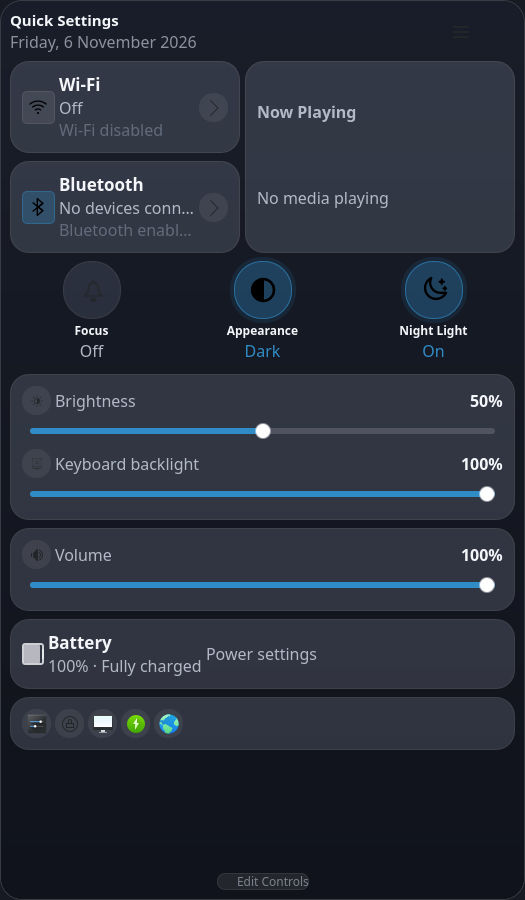
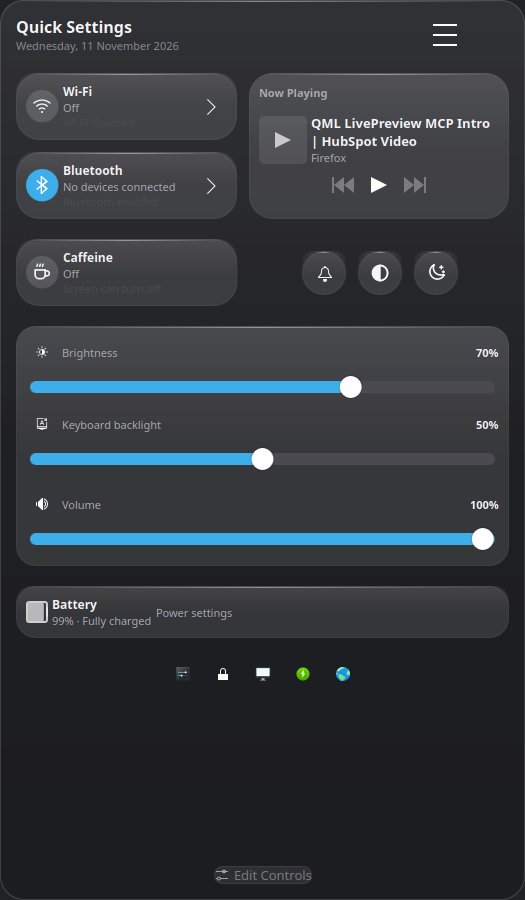
Add Caffeine toggle and refresh screenshots

diff --git a/package/contents/ui/CaffeineCard.qml b/package/contents/ui/CaffeineCard.qml
@@ -1,0 +1,196 @@
+// SPDX-FileCopyrightText: 2026 Peter Chege <peterchegen12@gmail.com>
+// SPDX-License-Identifier: GPL-3.0-or-later
+
+import QtQuick
+import QtQuick.Layouts
+
+import org.kde.plasma.components as PlasmaComponents3
+import org.kde.plasma.plasma5support as Plasma5Support
+import org.kde.kirigami as Kirigami
+
+import "components" as Components
+
+Components.GlassCard {
+    id: root
+
+    property bool active: false
+    property bool available: true
+    property bool pendingSync: false
+    property real pendingSince: 0
+
+    // A transient user unit keeps the inhibition alive across plasmashell
+    // restarts and is removed automatically when it is stopped.
+    readonly property string unitName: "quick-settings-caffeine"
+    readonly property string statusCommand: "systemctl --user is-active --quiet "
+        + root.unitName + ".service"
+    readonly property string availabilityCommand: "sh -c 'command -v systemd-run >/dev/null"
+        + " && command -v systemctl >/dev/null'"
+    readonly property string startCommand: "sh -c 'systemctl --user stop "
+        + root.unitName + ".service >/dev/null 2>&1; systemd-run --user --unit="
+        + root.unitName + " --collect --description=QuickSettingsCaffeine"
+        + " systemd-inhibit --what=idle:sleep --who=QuickSettings"
+        + " --why=Caffeine sleep infinity'"
+    readonly property string stopCommand: "systemctl --user stop "
+        + root.unitName + ".service"
+
+    overrideRadius: t.popupRadius
+    interactive: root.available
+    onClicked: root.toggle()
+
+    Component.onCompleted: {
+        availabilitySource.connectSource(root.availabilityCommand);
+        root.refresh();
+    }
+
+    function refresh() {
+        statusSource.disconnectSource(root.statusCommand);
+        statusSource.connectSource(root.statusCommand);
+    }
+
+    function toggle() {
+        if (!root.available) {
+            return;
+        }
+        // Update the card immediately; the poll below confirms the result and
+        // ignores stale reads until the unit agrees with the flip.
+        root.pendingSince = Date.now();
+        root.pendingSync = true;
+        root.active = !root.active;
+        const command = root.active ? root.startCommand : root.stopCommand;
+        commandSource.disconnectSource(command);
+        commandSource.connectSource(command);
+    }
+
+    Plasma5Support.DataSource {
+        id: statusSource
+
+        engine: "executable"
+        interval: 2000
+        connectedSources: root.available ? [root.statusCommand] : []
+
+        onNewData: function(sourceName, data) {
+            if (sourceName !== root.statusCommand) {
+                return;
+            }
+            const exitCode = Number(data["exit code"] !== undefined
+                ? data["exit code"] : data["exit status"]);
+            const isActive = exitCode === 0;
+            if (root.pendingSync) {
+                if (isActive === root.active) {
+                    root.pendingSync = false;
+                } else if (Date.now() - root.pendingSince > 5000) {
+                    root.pendingSync = false;
+                    root.active = isActive;
+                } else {
+                    return;
+                }
+            }
+            root.active = isActive;
+        }
+    }
+
+    Plasma5Support.DataSource {
+        id: availabilitySource
+
+        engine: "executable"
+        interval: 0
+        connectedSources: []
+
+        onNewData: function(sourceName, data) {
+            availabilitySource.disconnectSource(sourceName);
+            if (sourceName !== root.availabilityCommand) {
+                return;
+            }
+            const exitCode = Number(data["exit code"] !== undefined
+                ? data["exit code"] : data["exit status"]);
+            root.available = exitCode === 0;
+            root.refresh();
+        }
+    }
+
+    Plasma5Support.DataSource {
+        id: commandSource
+
+        engine: "executable"
+        interval: 0
+        connectedSources: []
+
+        onNewData: function(sourceName, data) {
+            commandSource.disconnectSource(sourceName);
+            root.refresh();
+        }
+    }
+
+    RowLayout {
+        Layout.fillWidth: true
+        spacing: Kirigami.Units.smallSpacing
+
+        Item {
+            Layout.preferredWidth: Kirigami.Units.gridUnit * 1.8
+            Layout.preferredHeight: Layout.preferredWidth
+
+            Rectangle {
+                anchors.fill: parent
+                radius: width / 2
+                color: root.active ? root.t.accent : root.t.controlOff
+
+                Behavior on color {
+                    ColorAnimation { duration: root.t.animationDuration }
+                }
+            }
+
+            Kirigami.Icon {
+                anchors.centerIn: parent
+                width: Kirigami.Units.iconSizes.smallMedium
+                height: width
+                source: Qt.resolvedUrl("../icons/caffeine-cup.svg")
+                isMask: true
+                color: root.active ? root.t.onAccent : root.t.text
+                opacity: root.available ? 1.0 : 0.4
+            }
+        }
+
+        ColumnLayout {
+            Layout.fillWidth: true
+            spacing: 0
+
+            PlasmaComponents3.Label {
+                text: i18n("Caffeine")
+                color: root.t.text
+                font.weight: Font.DemiBold
+                font.pointSize: Kirigami.Theme.smallFont.pointSize + 1
+                textFormat: Text.PlainText
+            }
+
+            PlasmaComponents3.Label {
+                Layout.fillWidth: true
+                text: !root.available
+                    ? i18n("Unavailable")
+                    : (root.active ? i18n("On") : i18n("Off"))
+                color: root.t.muted
+                font.pointSize: Kirigami.Theme.smallFont.pointSize
+                elide: Text.ElideRight
+                maximumLineCount: 1
+                textFormat: Text.PlainText
+            }
+
+            PlasmaComponents3.Label {
+                Layout.fillWidth: true
+                text: !root.available
+                    ? i18n("systemd is required")
+                    : (root.active ? i18n("Screen stays on") : i18n("Screen can turn off"))
+                color: root.t.inactive
+                font.pointSize: Kirigami.Theme.smallFont.pointSize
+                elide: Text.ElideRight
+                maximumLineCount: 1
+                textFormat: Text.PlainText
+            }
+        }
+    }
+
+    Accessible.role: Accessible.Button
+    Accessible.name: root.available
+        ? i18n("Caffeine, %1", root.active ? i18n("on") : i18n("off"))
+        : i18n("Caffeine, unavailable")
+    Accessible.checked: root.active
+}

diff --git a/package/contents/ui/MainView.qml b/package/contents/ui/MainView.qml
@@ -176,43 +176,62 @@ Item {
                         }
 
                         RowLayout {
-                            Layout.alignment: Qt.AlignHCenter
+                            Layout.fillWidth: true
                             spacing: root.t.spacing
-                            visible: root.cfg.showFocus !== false
+                            visible: root.cfg.showCaffeine !== false
+                                || root.cfg.showFocus !== false
                                 || root.cfg.showAppearance !== false
                                 || root.cfg.showNightLight !== false
 
-                            FocusCard {
+                            CaffeineCard {
+                                Layout.preferredWidth: Math.max(0,
+                                    (mainScroll.availableWidth - root.t.spacing) * 0.46)
                                 Layout.alignment: Qt.AlignVCenter
-                                visible: root.cfg.showFocus !== false
+                                visible: root.cfg.showCaffeine !== false
                                 theme: root.t
                             }
 
-                            AppearanceCard {
+                            Item {
+                                Layout.fillWidth: true
+                                Layout.preferredHeight: circleRow.implicitHeight
                                 Layout.alignment: Qt.AlignVCenter
-                                visible: root.cfg.showAppearance !== false
-                                theme: root.t
-                                dark: root.systemDark
-                                koiConnected: root.koiConnected
-                                koiOnboarded: root.koiOnboarded
-                                animationsEnabled: root.t.animations
-                                onActivated: {
-                                    if (root.koiConnected && root.koiOnboarded) {
-                                        if (root.systemDark) {
-                                            root.koi.applyLightMode();
-                                        } else {
-                                            root.koi.applyDarkMode();
+
+                                RowLayout {
+                                    id: circleRow
+
+                                    anchors.centerIn: parent
+                                    spacing: root.t.spacing
+
+                                    FocusCard {
+                                        visible: root.cfg.showFocus !== false
+                                        theme: root.t
+                                    }
+
+                                    AppearanceCard {
+                                        visible: root.cfg.showAppearance !== false
+                                        theme: root.t
+                                        dark: root.systemDark
+                                        koiConnected: root.koiConnected
+                                        koiOnboarded: root.koiOnboarded
+                                        animationsEnabled: root.t.animations
+                                        onActivated: {
+                                            if (root.koiConnected && root.koiOnboarded) {
+                                                if (root.systemDark) {
+                                                    root.koi.applyLightMode();
+                                                } else {
+                                                    root.koi.applyDarkMode();
+                                                }
+                                            } else {
+                                                root.currentPage = 5;
+                                            }
                                         }
-                                    } else {
-                                        root.currentPage = 5;
+                                    }
+
+                                    NightLightCard {
+                                        visible: root.cfg.showNightLight !== false
+                                        theme: root.t
                                     }
                                 }
-                            }
-
-                            NightLightCard {
-                                Layout.alignment: Qt.AlignVCenter
-                                visible: root.cfg.showNightLight !== false
-                                theme: root.t
                             }
                         }
 

diff --git a/package/contents/config/configSections.qml b/package/contents/config/configSections.qml
@@ -12,6 +12,7 @@ KCM.SimpleKCM {
 
     property alias cfg_showWifi: wifiCheck.checked
     property alias cfg_showBluetooth: bluetoothCheck.checked
+    property alias cfg_showCaffeine: caffeineCheck.checked
     property alias cfg_showBrightness: brightnessCheck.checked
     property alias cfg_showVolume: volumeCheck.checked
     property alias cfg_showFocus: focusCheck.checked
@@ -32,6 +33,12 @@ KCM.SimpleKCM {
             id: bluetoothCheck
 
             text: i18n("Bluetooth")
+        }
+
+        QQC2.CheckBox {
+            id: caffeineCheck
+
+            text: i18n("Caffeine (keep the screen on)")
         }
 
         QQC2.CheckBox {

diff --git a/README.md b/README.md
@@ -18,6 +18,7 @@ for the full set and capture notes.
 - Appearance and Night Light quick toggles that stay in sync with the system.
 - Live system state for Wi-Fi, Bluetooth, volume, screen brightness, media,
   notifications and battery.
+- Caffeine toggle that keeps the screen on and prevents idle sleep.
 - Separate Wi-Fi, Bluetooth, audio and power detail views inside the same popup.
 - Per-module visibility, spacing, transparency, corner radius, animation and
   quick-action configuration.
@@ -33,6 +34,7 @@ for the full set and capture notes.
   - PipeWire or PulseAudio through `plasma-pa`.
   - MPRIS for media players.
   - UPower / PowerDevil for battery and power profiles.
+  - `systemd-run` and `systemd-inhibit` for the Caffeine toggle.
 - `plasma-apply-colorscheme` from `plasma-workspace` for light/dark switching.
 
 All integrations are optional at runtime. Missing hardware or services result
@@ -96,8 +98,8 @@ Available settings include:
 - Optional custom panel icon with an icon picker and reset to the bundled default.
 - Transparency, glass effect, corner radius, compact spacing, animations and
   animation speed.
-- Visibility of each module (Wi-Fi, Bluetooth, brightness, volume, focus,
-  appearance, Night Light, media, battery and quick actions).
+- Visibility of each module (Wi-Fi, Bluetooth, Caffeine, brightness, volume,
+  focus, appearance, Night Light, media, battery and quick actions).
 - Header date visibility, close-on-outside-click and whether the popup
   remembers the last view.
 - Individual quick actions for System Settings, lock screen, display, power,

diff --git a/screenshots/README.md b/screenshots/README.md
@@ -9,7 +9,8 @@ Screenshots are generated from the real QML sources; no mockups are used.
 5. `audio.png` — the expanded audio view (420 × 760).
 6. `power.png` — the expanded power view (420 × 340).
 
-All six images were rendered from the same QML sources with an offscreen
-Qt Quick harness; the live widget was also verified in `plasmawindowed` under
-XWayland. Keep the accent colour and desktop wallpaper consistent when
+All six images come from the same QML sources: the main pair was captured
+from the live widget in `plasmawindowed`, and the detail views were rendered
+with an offscreen Qt Quick harness. Keep the icon theme, accent colour and
+background consistent with the Breeze Light/Dark colour schemes when
 refreshing the set.

diff --git a/CHANGELOG.md b/CHANGELOG.md
@@ -9,6 +9,8 @@ and this project adheres to [Semantic Versioning](https://semver.org/spec/v2.0.0
 
 ### Added
 
+- Caffeine card that keeps the screen on and prevents idle sleep, placed below
+  Bluetooth with the Focus, Appearance and Night Light buttons beside it.
 - Microphone volume and mute controls in the audio details view.
 - Open the audio details view by clicking the volume card.
 - Open the power details view by clicking the battery card.
